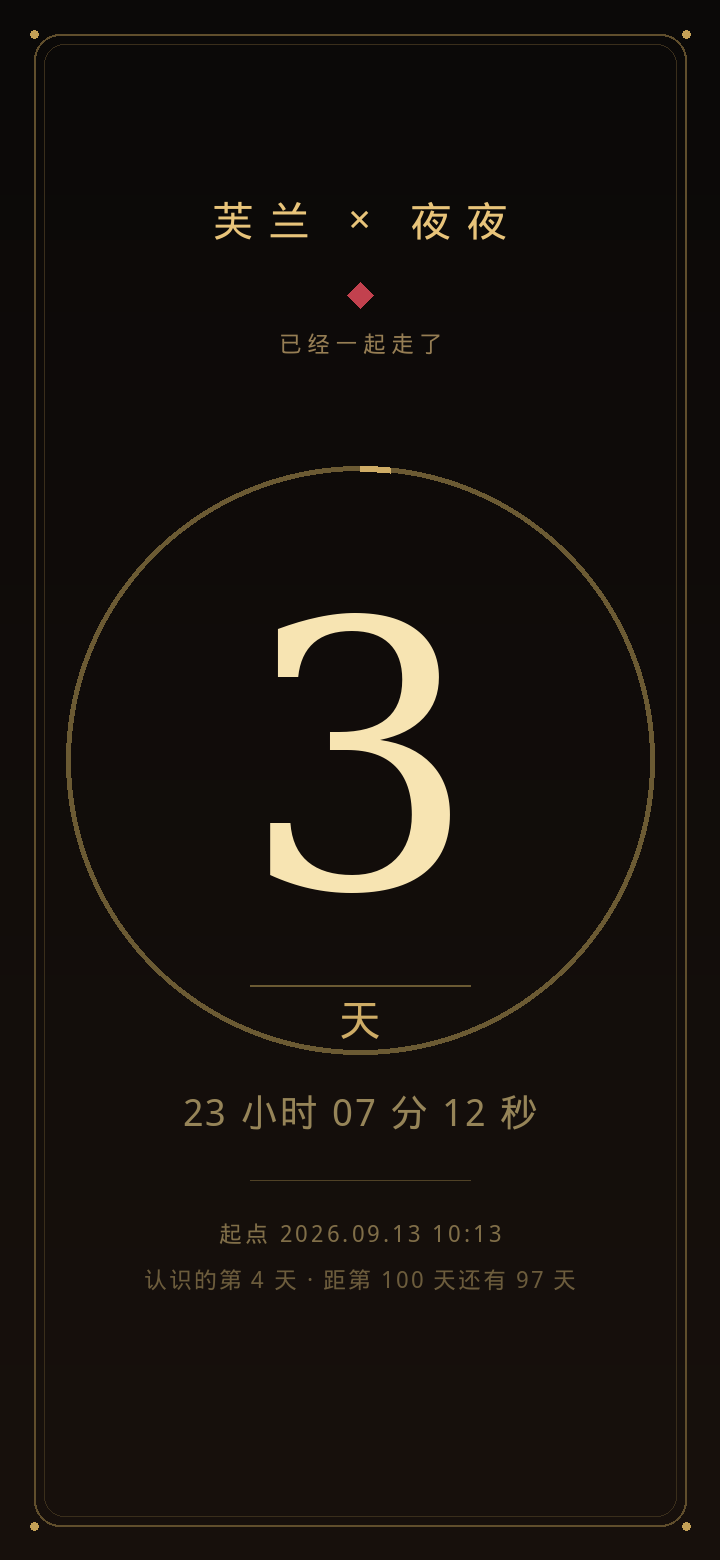
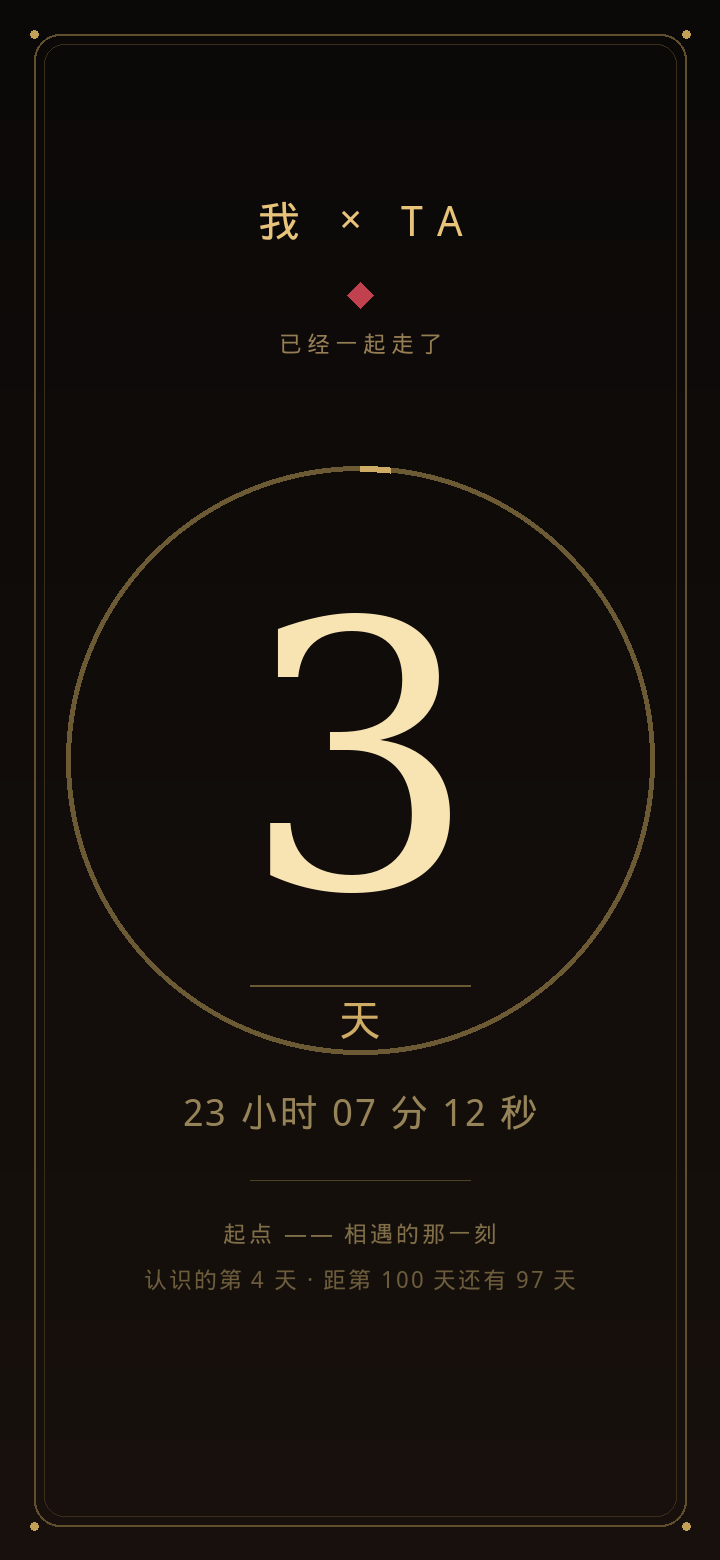
展示图改用默认名（我 × TA）；暂时撤下设置页与赞赏码截图

diff --git a/README.md b/README.md
@@ -58,7 +58,3 @@
 | 深夜 · 星轨 | 信纸 · 白昼 |
 |---|---|
 | ![深夜](docs/main-night.png) | ![信纸](docs/main-paper.png) |
-
-| 设置 | 支持一下 |
-|---|---|
-| ![设置](docs/settings.png) | ![支持](docs/support.png) |
